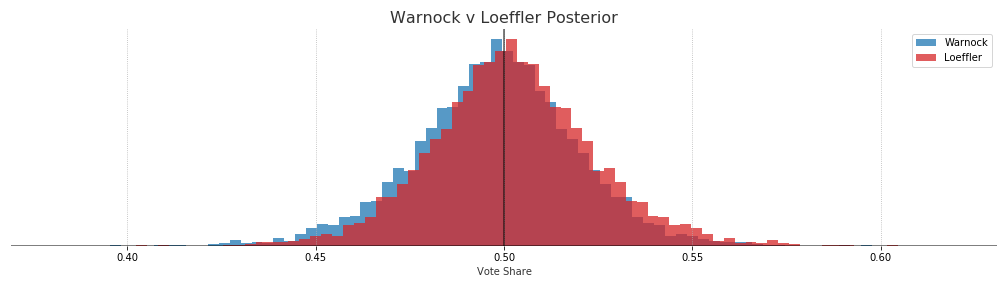
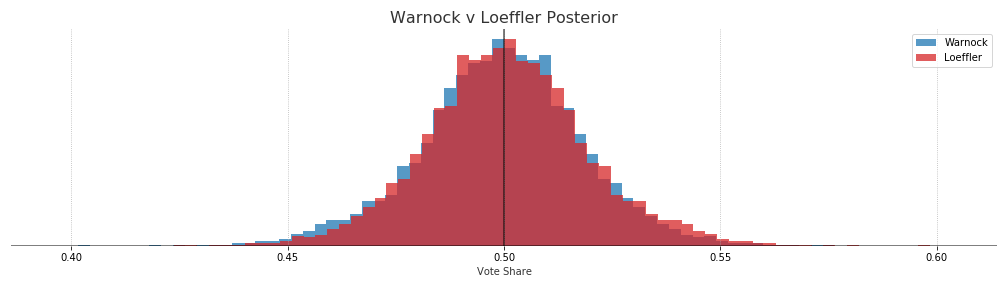
updated with most recent polls

diff --git a/_posts/2020-12-18-election.md b/_posts/2020-12-18-election.md
@@ -4,14 +4,14 @@ title: Hierarchical Partial Pooling for Georgia Runoff Elections
 published: True
 ---
 
-Updated: Dec 24, 2020
+Updated: Dec 29, 2020
 
-# Warnock: 46.2% - Loeffler: 53.8% 
+# Warnock: 49.2% - Loeffler: 50.8% 
 
 {: .center}
 ![WL Posterior](../images/ga_wl_posteriors.png)
 
-# Ossoff: 40.1% - Perdue: 59.9% 
+# Ossoff: 38.7% - Perdue: 61.3% 
 
 {: .center}
 ![WL Posterior](../images/ga_op_posteriors.png)
@@ -22,10 +22,10 @@ Updated: Dec 24, 2020
 
 | Candidate | Mean | 80% Interval |
 | ----------|------|--------------|
-| Ossoff    | 49.5 | 46.8 - 52.5  |
-| Perdue    | 50.6 | 47.5 - 53.2  |
-| Warnock   | 49.8 | 47.2 - 52.5  |
-| Loeffler  | 50.4 | 47.5 - 52.8  |
+| Ossoff    | 49.5 | 47.1 - 52.1  |
+| Perdue    | 50.5 | 47.9 - 52.9  |
+| Warnock   | 49.9 | 47.6 - 52.2  |
+| Loeffler  | 50.1 | 47.8 - 52.4  |
 
 ## Methods
 
